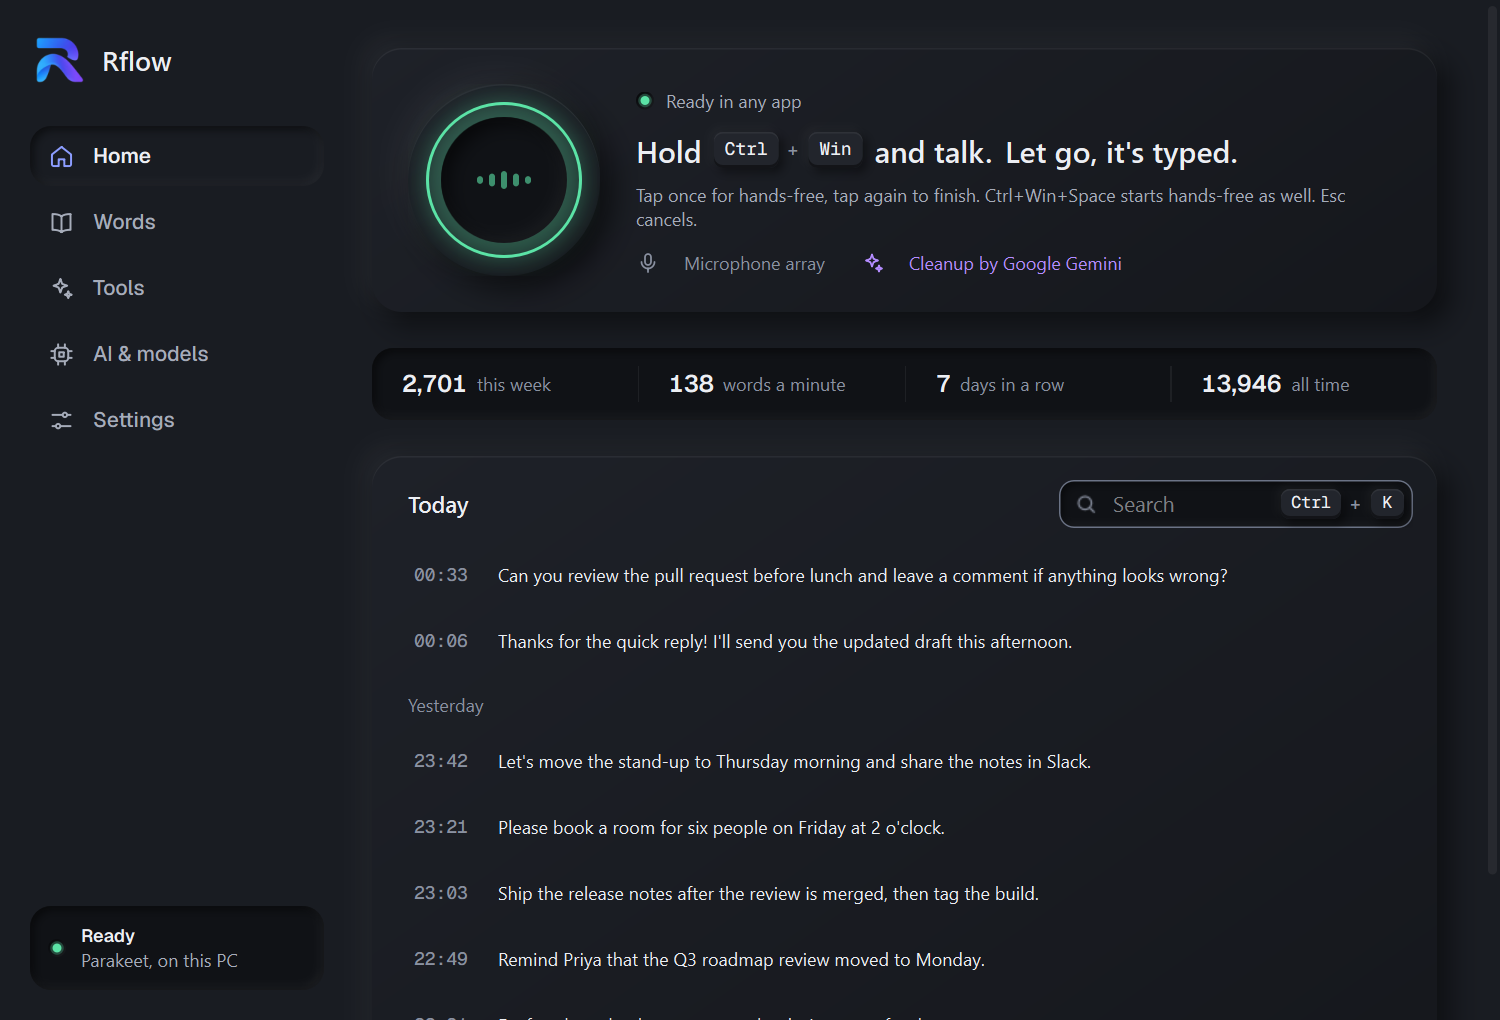
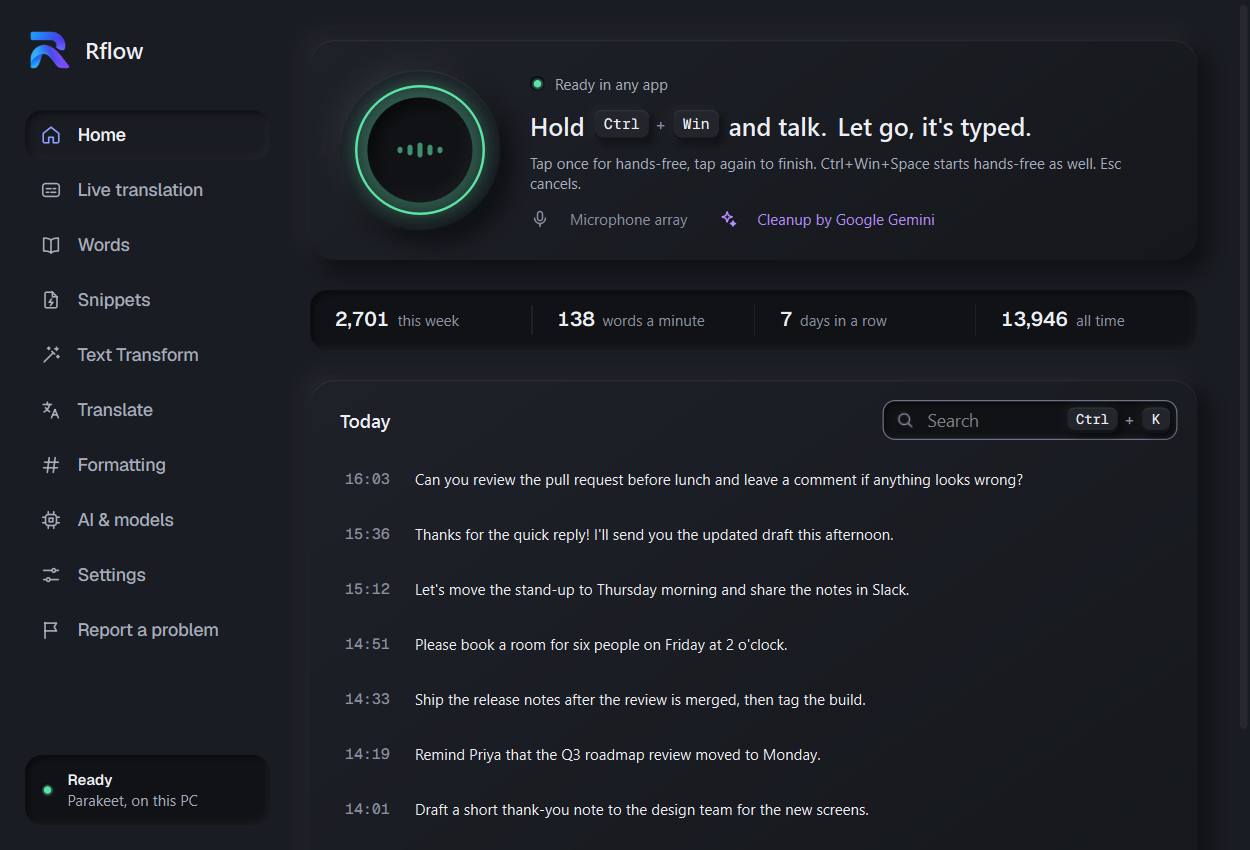
Show the new window and the setups on the website
The site still said Rflow 2.0 and five places (Home, Words, Tools...) and showed the old Tools page.
It now says Rflow is free and open source, shows AI & models with the setups and their prices, Live
translation, Text Transform and the setup-first welcome (screenshots made from the real window),
adds features for live translation, costs and open source, the Ctrl+Alt+L key, and FAQ answers on
what each feature sends where (user testing M-17), what it costs and the licence.

diff --git a/site/index.html b/site/index.html
@@ -4,11 +4,11 @@
 <meta charset="utf-8">
 <meta name="viewport" content="width=device-width, initial-scale=1">
 <title>Rflow — speak anywhere, it types</title>
-<meta name="description" content="Rflow is a free Windows dictation app. Hold Ctrl+Win in any app, speak, let go: your words are typed where your cursor is. Speech recognition runs on your laptop.">
+<meta name="description" content="Rflow is a free, open-source Windows dictation app. Hold Ctrl+Win in any app, speak, let go: your words are typed where your cursor is. Speech recognition runs on your laptop.">
 <link rel="icon" href="favicon.ico" sizes="any">
 <link rel="icon" type="image/png" href="img/logo.png">
 <link rel="apple-touch-icon" href="img/touch-icon.png">
-<meta property="og:title" content="Rflow 2.0 — speak anywhere, it types">
+<meta property="og:title" content="Rflow — speak anywhere, it types">
 <meta property="og:description" content="Hold Ctrl+Win in any Windows app, speak, let go. Speech recognition runs on your laptop.">
 <meta property="og:image" content="https://rachflow.vercel.app/img/og.png">
 <meta property="og:image:width" content="1200">
@@ -167,7 +167,7 @@
 
   <div class="hero">
     <div>
-      <span class="eyebrow well"><span class="lamp"></span>Rflow 2.0 · free for Windows</span>
+      <span class="eyebrow well"><span class="lamp"></span>Free and open source · for Windows</span>
       <h1>Speak anywhere.<br><span class="soft">Rflow types it.</span></h1>
       <p class="lead">Hold <kbd>Ctrl</kbd><span class="plus">+</span><kbd>Win</kbd> in any Windows app, say what you want to write,
         and let go. <strong>Your words appear where your cursor is.</strong> Speech recognition runs on your laptop.</p>
@@ -177,7 +177,7 @@
           Download for Windows</a>
         <a class="button" href="#how">How it works</a>
       </div>
-      <p class="release" id="release">Windows 10 and 11, 64-bit · free</p>
+      <p class="release" id="release">Windows 10 and 11, 64-bit · free and open source</p>
     </div>
     <div class="stage">
       <div class="card frame"><picture><source srcset="img/app-light.png" media="(prefers-color-scheme: light)"><img class="shot" src="img/app.png" alt="Rflow's Home: the voice orb, how to dictate with keycaps, your stats and your recent dictations"></picture></div>
@@ -185,11 +185,11 @@
     </div>
   </div>
 
-  <div class="well new" aria-label="New in Rflow 2.0">
-    <div><span class="lamp"></span><p style="margin:0"><b>A new look</b><span>Soft depth on graphite, light and dark, one job per colour.</span></p></div>
-    <div><span class="lamp ai"></span><p style="margin:0"><b>Five clear places</b><span>Home, Words, Tools, AI &amp; models, Settings.</span></p></div>
-    <div><span class="lamp warn"></span><p style="margin:0"><b>Set up in 3 steps</b><span>How it hears you, a first try, an AI if you want.</span></p></div>
-    <div><span class="lamp live"></span><p style="margin:0"><b>Keys on the keys</b><span>Copy <kbd>C</kbd> and Replace <kbd>↵</kbd> in Translate.</span></p></div>
+  <div class="well new" aria-label="New in Rflow">
+    <div><span class="lamp"></span><p style="margin:0"><b>Open source</b><span>MIT License: read the code, change it, share it.</span></p></div>
+    <div><span class="lamp ai"></span><p style="margin:0"><b>Setups with prices</b><span>Recommended, Fastest, Multilingual or Local, and what each costs.</span></p></div>
+    <div><span class="lamp warn"></span><p style="margin:0"><b>Ten clear sections</b><span>Snippets, Text Transform, Translate and Formatting each get one.</span></p></div>
+    <div><span class="lamp live"></span><p style="margin:0"><b>Live translation</b><span>One big Start button, and a voice that speaks it.</span></p></div>
   </div>
 </div>
 
@@ -217,6 +217,12 @@
         <h3>Always shows what it's doing</h3><p>A small pill at the bottom of the screen: your voice while you speak, then "Typed". It never steals the focus.</p></div>
       <div class="card feature"><div class="icon well iris"><svg class="i" viewBox="0 0 24 24"><path d="M12 4v11M7.5 8.5L12 4l4.5 4.5M5 19.5h14"/></svg></div>
         <h3>Updates itself</h3><p>When a new version is out, Rflow says so. One click downloads it, checks it against its published checksum and installs it.</p></div>
+      <div class="card feature"><div class="icon well violet"><svg class="i" viewBox="0 0 24 24"><rect x="3" y="5" width="18" height="14" rx="3"/><path d="M7 11h4M13 11h4M7 15h7"/></svg></div>
+        <h3>Live translation</h3><p>A meeting, a video or the people in the room, translated while they speak, in a bar you can move anywhere. A voice on your laptop can speak it, too.</p></div>
+      <div class="card feature"><div class="icon well ok"><svg class="i" viewBox="0 0 24 24"><path d="M12 3v18M16.5 7.5c-.8-1.3-2.5-2-4.5-2-2.5 0-4 1.3-4 3 0 4.5 9 2.5 9 7 0 1.8-1.7 3-4.5 3-2.2 0-4-.8-5-2.2"/></svg></div>
+        <h3>Know what it costs</h3><p>Ready-made setups pick the cheapest model that does the job well, about $1 a month for typical use, or nothing at all on your PC. Expensive models are marked in red.</p></div>
+      <div class="card feature"><div class="icon well iris"><svg class="i" viewBox="0 0 24 24"><path d="M8 7l-5 5 5 5M16 7l5 5-5 5M14 4l-4 16"/></svg></div>
+        <h3>Free and open source</h3><p>No account, no subscription, no tracking. The code is on <a href="https://github.com/karthi-ai-engineer/Rach_flow">GitHub</a> under the MIT License: read it, change it, share it.</p></div>
     </div>
   </div>
 </section>
@@ -224,16 +230,18 @@
 <section id="tour">
   <div class="wrap">
     <div class="caps">The app</div>
-    <h2>One calm window, five places</h2>
+    <h2>One calm window, ten clear sections</h2>
     <p class="sub">Open Rflow from the Start menu or its icon near the clock. Closing the window keeps Rflow running, so
       dictation still works everywhere.</p>
     <div class="gallery">
-      <figure class="card"><img class="shot" src="img/models.png" alt="AI & models: how Rflow hears you, the AI connection and the microphone" loading="lazy">
-        <figcaption><b>AI &amp; models.</b> Parakeet on this PC or a cloud model, the microphone with a live meter, and the AI connection with a Test.</figcaption></figure>
-      <figure class="card"><img class="shot" src="img/tools.png" alt="Tools: Text Transform and Translate, with a box to try them" loading="lazy">
-        <figcaption><b>Tools.</b> Text Transform and Translate side by side, each with its switch, and a box to try them.</figcaption></figure>
+      <figure class="card"><img class="shot" src="img/models.png" alt="AI & models: the setups with what each costs a month, and your API keys" loading="lazy">
+        <figcaption><b>AI &amp; models.</b> Setups with what each costs a month, all your API keys in one place, and the speech model and AI to choose yourself.</figcaption></figure>
+      <figure class="card"><img class="shot" src="img/live.png" alt="Live translation: a big Start button and Speak the translation" loading="lazy">
+        <figcaption><b>Live translation.</b> One big Start; while it runs, a red Stop and a blinking light. Speak the translation, right under it.</figcaption></figure>
+      <figure class="card"><img class="shot" src="img/transform.png" alt="Text Transform: how to use it, and what each one does with before-and-after examples" loading="lazy">
+        <figcaption><b>Text Transform.</b> How to use it in three steps, and what Concise, Professional, Bullet points and Action items do, with examples.</figcaption></figure>
       <figure class="card"><img class="shot" src="img/words.png" alt="Words: your words as chips and the sound-alikes Rflow fixes" loading="lazy">
-        <figcaption><b>Words.</b> Names and terms Rflow should spell your way, the sound-alikes it fixes, and your snippets.</figcaption></figure>
+        <figcaption><b>Words.</b> Names and terms Rflow should spell your way, and the sound-alikes it fixes. Snippets have a section of their own.</figcaption></figure>
       <figure class="card"><picture><source srcset="img/app.png" media="(prefers-color-scheme: light)"><img class="shot" src="img/app-light.png" alt="Rflow's Home in the other theme" loading="lazy"></picture>
         <figcaption><b>Light or dark.</b> Rflow follows Windows: Obsidian in dark mode, Porcelain in light.</figcaption></figure>
     </div>
@@ -259,12 +267,12 @@
     <h2>Three steps, and you're dictating</h2>
     <p class="sub">No admin rights, no account.</p>
     <div class="steps">
-      <div class="card step"><kbd class="n">1</kbd><h3>Install</h3><p>Run <b>Rflow-Setup.exe</b>. Rflow asks how it should hear you: Parakeet on this PC (one 660 MB download, then offline) or a cloud model with your key.</p></div>
+      <div class="card step"><kbd class="n">1</kbd><h3>Install</h3><p>Run <b>Rflow-Setup.exe</b> and pick a setup: Recommended (speech on this PC and a low-cost AI), Fastest, Multilingual or Local. Each says what it needs and costs.</p></div>
       <div class="card step"><kbd class="n">2</kbd><h3>Try it</h3><p>Hold <kbd>Ctrl</kbd><span class="plus">+</span><kbd>Win</kbd> and say "Hello Rflow". The orb lights up mint when it's typed.</p></div>
       <div class="card step"><kbd class="n">3</kbd><h3>Speak anywhere</h3><p>Teams, Slack, Outlook, Word, VS Code, your browser: click in a text box, hold the key and talk.</p></div>
     </div>
     <div class="two" style="margin-top:40px">
-      <div class="card frame"><img class="shot" src="img/welcome.png" alt="Rflow's first run: how should Rflow hear you? On this PC or in the cloud" loading="lazy"></div>
+      <div class="card frame"><img class="shot" src="img/welcome.png" alt="Rflow's first run: how should Rflow work? Recommended, Fastest, Multilingual, Local or Custom, with what each costs" loading="lazy"></div>
       <div class="card" style="padding:6px 0">
         <table class="keys">
           <tr><td>hold <kbd>Ctrl</kbd><span class="plus">+</span><kbd>Win</kbd></td><td>talk while holding, let go to type</td></tr>
@@ -273,6 +281,7 @@
           <tr><td><kbd>Esc</kbd></td><td>cancel the recording</td></tr>
           <tr><td><kbd>Ctrl</kbd><kbd>C</kbd><kbd>C</kbd></td><td>translate the selected text</td></tr>
           <tr><td>double-tap <kbd>Ctrl</kbd></td><td>Text Transform's menu</td></tr>
+          <tr><td><kbd>Ctrl</kbd><span class="plus">+</span><kbd>Alt</kbd><span class="plus">+</span><kbd>L</kbd></td><td>start or stop live translation</td></tr>
           <tr><td><kbd>Ctrl</kbd><span class="plus">+</span><kbd>K</kbd></td><td>search your dictations in Rflow</td></tr>
         </table>
       </div>
@@ -288,8 +297,17 @@
       <details class="card"><summary>Is my voice sent anywhere?</summary>
         <p>Not with Parakeet or Whisper: they recognise speech on your laptop. If you choose a cloud model (OpenAI, Google Gemini,
           Groq), each recording goes to that provider, and Rflow asks you first; with your own server, it goes to that server. The
-          AI cleanup, if you switch it on, sends only the finished text (never audio) to the provider you chose. Your API keys are
+          AI cleanup, if you switch it on, sends only the finished text (never audio) to the provider you chose; Text Transform and
+          Translate send the text you select to it, too. Live translation sends what it listens to (the computer's sound, the
+          microphone, or both: other people's voices too) to Google Gemini, and says so before it starts. Your API keys are
           encrypted for your Windows account.</p></details>
+      <details class="card"><summary>What does it cost?</summary>
+        <p>Rflow itself is free and open source. Cloud models are paid to the provider, with your own key, and Rflow shows what
+          each one costs a month for typical use (20 minutes of dictation a day): about $1 for the Recommended setup, nothing for
+          Local. Expensive models are marked in red before you choose them.</p></details>
+      <details class="card"><summary>Is it really open source?</summary>
+        <p>Yes, under the MIT License. The code, the issues and every change are on <a href="https://github.com/karthi-ai-engineer/Rach_flow">GitHub</a>; bug reports,
+          ideas and pull requests are welcome.</p></details>
       <details class="card"><summary>Windows says "Windows protected your PC"</summary>
         <p>The installer isn't code-signed yet. Click <b>More info</b>, then <b>Run anyway</b>.</p></details>
       <details class="card"><summary>What does it need?</summary>
@@ -313,7 +331,7 @@
   <div class="wrap">
     <span><img class="foot-mark" src="img/logo.png" width="20" height="20" alt="">© <span id="year">2026</span> Rflow · made by <a href="https://github.com/karthi-ai-engineer">karthi-ai-engineer</a></span>
     <span>Speech models: NVIDIA Parakeet (NVIDIA Open Model License), OpenAI Whisper (MIT) · Fonts: Geist (SIL OFL) ·
-      <a href="https://github.com/karthi-ai-engineer/Rach_flow">Source on GitHub</a></span>
+      <a href="https://github.com/karthi-ai-engineer/Rach_flow">Source on GitHub</a> · <a href="https://github.com/karthi-ai-engineer/Rach_flow/blob/main/LICENSE">MIT License</a></span>
   </div>
 </footer>
 

diff --git a/scripts/make_site_screenshots.py b/scripts/make_site_screenshots.py
@@ -132,7 +132,8 @@ def main() -> None:
     shot("app.png", "home")
     shot("app-light.png", "home", "light")
     shot("models.png", "models")
-    shot("tools.png", "tools")
+    shot("live.png", "live")
+    shot("transform.png", "transform")
     shot("words.png", "dictionary")
     app = preview()
     app.settings.welcomed = False
